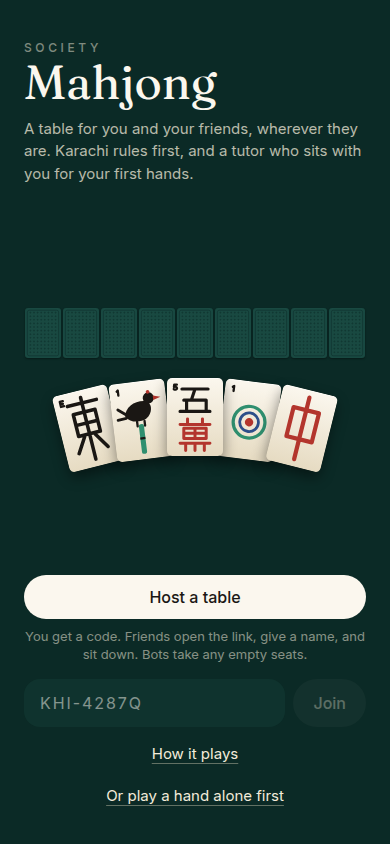
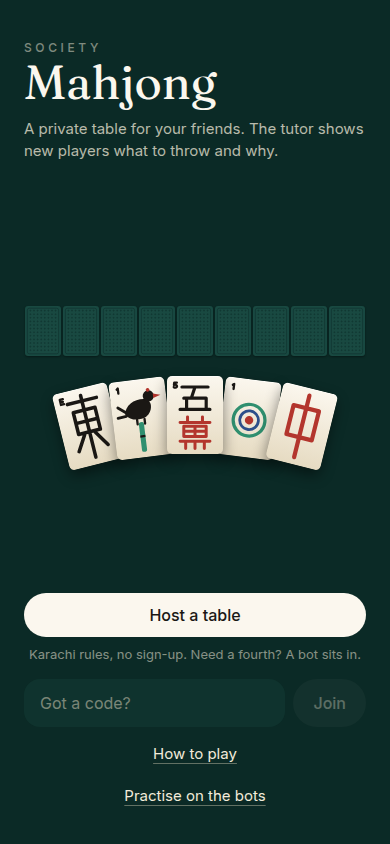
SEO pass: a card for /rules, a rules page that matches the table, site name
From an SEO audit of production and the branch, checked against Google and
Bing documentation. Nothing was marking the site down; these fix the real
gaps without adding pages.

Link previews
- /rules gets its own opengraph-image; its page-level openGraph had
  dropped the site card, so shared rules links showed no picture.
- /r/<anything> only prints a well-formed code (isRoomCode) on the card
  and in og:url; a made-up path gets a plain invite. Room codes stay on
  one line of the card.
- /play/solo has its own description instead of the host-a-table one.

The rules page tells the truth (checked against the engine)
- The deal passes after every hand (dealerRetainsOnWin is false).
- South is any four sets and a pair (fixed at the source, the Karachi
  South description in the engine).
- Only West hands open with the exchange; the opening goulash has none.
- A discard can complete a run when it wins the hand (glossary too).
- Scoring: flat stake, East doubled, own flower/season multiplier;
  goulash hands counted up, with a self-drawn bonus.
- Titled for its subject, "Karachi mahjong rules: how to play", H1 "How
  to play Karachi mahjong"; a footer route to hosting; which "goulash".

Search plumbing
- WebSite JSON-LD for the site name; WebApplication moved into @graph
  with browserRequirements instead of a misused operatingSystem.
- The home heading reads "Society Mahjong", visually unchanged.
- robots.txt: no redundant Allow, no Host line (ignored by Google, Bing).
[…]

diff --git a/apps/web/app/rules/page.tsx b/apps/web/app/rules/page.tsx
@@ -5,8 +5,8 @@ import { Tile } from '@/components/tile';
 import { GLOSSARY, TERMS } from '@/lib/coach/glossary';
 
 export const metadata: Metadata = {
-  title: 'How to play',
-  description: 'How a table of mahjong plays, what Karachi rules ask for in each round, and the words you will hear.',
+  title: 'Karachi mahjong rules: how to play',
+  description: 'Karachi mahjong rules in plain English: the tiles, claiming a discard, the hand each wind round asks for, goulash and the exchange, scoring, and the words you will hear.',
   alternates: { canonical: '/rules' },
   // Next replaces a nested object whole, so the site fields from the root layout are repeated here.
   openGraph: { siteName: 'Society Mahjong', type: 'website', locale: 'en_GB', url: '/rules' },
@@ -43,9 +43,9 @@ export default function RulesPage() {
   return (
     <main className="rules">
       <header>
-        <p className="eyebrow">How to play</p>
-        <h1 className="font-display">Mahjong, the way this table plays it</h1>
-        <p className="lede">Four seats, thirteen tiles each, one goal: complete a hand before anyone else. Here is everything a first-timer needs. The tutor covers the rest at the table.</p>
+        <p className="eyebrow">The rules</p>
+        <h1 className="font-display">How to play Karachi mahjong</h1>
+        <p className="lede">Karachi mahjong is the game played at home and at the club in Karachi: a blend of Mumbai and Western play in which each wind round asks for a different hand. Four seats, thirteen tiles each, one goal: complete a hand before anyone else. Here is everything a first-timer needs. The tutor covers the rest at the table.</p>
       </header>
 
       <section>
@@ -89,8 +89,8 @@ export default function RulesPage() {
           <Tile kind="p2" size="sm" />
         </div>
         <p>
-          And if a discard completes your whole hand, you call <b>Mahjong</b> and the hand is over. In Karachi rules a <b>chow</b> (a run of three in one suit) is built only from tiles you draw
-          yourself; it cannot be claimed.
+          And if a discard completes your whole hand, you call <b>Mahjong</b> and the hand is over. In Karachi rules a <b>chow</b> (a run of three in one suit) is built from tiles you draw
+          yourself: you cannot claim a discard to make one, unless that tile completes your whole hand.
         </p>
         <p>On a live table a claim window opens for a few seconds after each discard. If nobody wants the tile, play moves on. The window is longer when a win is on offer.</p>
       </section>
@@ -98,7 +98,7 @@ export default function RulesPage() {
       <section>
         <h2 className="font-display">Karachi rules: four rounds, four asks</h2>
         <p>
-          A game is four rounds of four hands, and each round asks for a different kind of hand. The dealer keeps the deal after winning; otherwise it passes to the right. The tutor names the
+          A game is four rounds of four hands, and each round asks for a different kind of hand. The deal passes one seat to the right after every hand, so each of you deals once a round. The tutor names the
           round&apos;s hand at the top of the table and points you towards it.
         </p>
         <dl className="rounds">
@@ -118,15 +118,18 @@ export default function RulesPage() {
           ))}
         </dl>
         <p>
-          A <b>goulash</b> hand starts with an <b>exchange</b>: everyone passes three tiles to the right, then across, then to the left, before a tile is drawn. West round is nothing but goulash.
+          The first hand of the game and every hand of the West round are <b>goulash</b> hands. Each West hand starts with an <b>exchange</b>: everyone passes three tiles to the right, then
+          across, then to the left, before a tile is drawn. British tables use the word for the hand after a washed-out deal; in Karachi rules the goulash opens the game and fills the whole West
+          round.
         </p>
       </section>
 
       <section>
         <h2 className="font-display">Scoring</h2>
         <p>
-          The winner is paid by the other three; the amount depends on the hand and on how it was completed. Winning on a tile you drew yourself (<b>self-drawn</b>) pays more than winning on a
-          discard. The table keeps a running tally; you will see it next to each name.
+          Most hands pay a flat stake: each of the other three pays the winner, and East pays and receives double. Holding your own flower or season doubles the stake, and holding both
+          quadruples it. The two kinds of goulash hand are added up tile by tile instead, and winning on a tile you drew yourself (<b>self-drawn</b>) scores more there. It is points only, never
+          money. The table keeps a running tally; you will see it next to each name.
         </p>
       </section>
 
@@ -155,11 +158,14 @@ export default function RulesPage() {
       </section>
 
       <footer>
-        <Link href="/play/solo" className="btn btn-primary btn-block min-h-[52px] text-[18px]">
-          Play a hand alone
+        <Link href="/room" className="btn btn-primary btn-block min-h-[52px] text-[18px]">
+          Host a table for your friends
+        </Link>
+        <Link href="/play/solo" className="btn btn-ghost btn-block min-h-[52px] text-[18px]">
+          Practise on the bots
         </Link>
         <Link href="/" className="link-quiet">
-          Back to the front
+          Society Mahjong home
         </Link>
       </footer>
     </main>

diff --git a/apps/web/app/page.tsx b/apps/web/app/page.tsx
@@ -12,24 +12,35 @@ export const metadata: Metadata = {
   openGraph: { siteName: 'Society Mahjong', type: 'website', locale: 'en_GB', url: '/' },
 };
 
-/** What this is, for search engines and answer agents; the same facts as /llms.txt. */
-const APP_LD = {
+/**
+ * The site's name for Google's site-name system, and what the app is; the same
+ * facts as /llms.txt. Never add ratings or reviews that are not real and on the page.
+ */
+const SITE_LD = {
   '@context': 'https://schema.org',
-  '@type': 'WebApplication',
-  name: 'Society Mahjong',
-  url: 'https://societymahjong.app/',
-  applicationCategory: 'GameApplication',
-  operatingSystem: 'iOS, Android, Web',
-  offers: { '@type': 'Offer', price: '0', priceCurrency: 'USD' },
+  '@graph': [
+    { '@type': 'WebSite', '@id': 'https://societymahjong.app/#website', name: 'Society Mahjong', url: 'https://societymahjong.app/' },
+    {
+      '@type': 'WebApplication',
+      '@id': 'https://societymahjong.app/#app',
+      name: 'Society Mahjong',
+      url: 'https://societymahjong.app/',
+      applicationCategory: 'GameApplication',
+      browserRequirements: 'Runs in a current web browser. Requires JavaScript.',
+      offers: { '@type': 'Offer', price: '0', priceCurrency: 'USD' },
+    },
+  ],
 };
 
 export default function Home() {
   return (
     <main className="landing">
-      <script type="application/ld+json" dangerouslySetInnerHTML={{ __html: JSON.stringify(APP_LD).replace(/</g, '\\u003c') }} />
+      <script type="application/ld+json" dangerouslySetInnerHTML={{ __html: JSON.stringify(SITE_LD).replace(/</g, '\\u003c') }} />
       <header className="hero">
-        <p className="eyebrow eyebrow-quiet">Society</p>
-        <h1 className="font-display">Mahjong</h1>
+        {/* One heading that reads "Society Mahjong", styled as the eyebrow over the word. */}
+        <h1 className="font-display">
+          <span className="eyebrow eyebrow-quiet">Society</span> Mahjong
+        </h1>
         <p className="lede">A private table for your friends. The tutor shows new players what to throw and why.</p>
       </header>
 

diff --git a/apps/web/lib/og.tsx b/apps/web/lib/og.tsx
@@ -21,14 +21,21 @@ function DragonTile({ height }: { height: number }) {
  * WhatsApp and iMessage show this before anyone has opened anything, so it
  * is the first thing a friend sees of the table.
  */
-export function ogCard(headline: string, line: string): ImageResponse {
+export function ogCard(headline: string | readonly string[], line: string): ImageResponse {
+  const parts = typeof headline === 'string' ? [headline] : headline;
   return new ImageResponse(
     (
       <div style={{ display: 'flex', width: '100%', height: '100%', background: '#0b2a26', color: '#fbf7ee', alignItems: 'center', padding: '0 96px', fontFamily: 'sans-serif' }}>
         <DragonTile height={360} />
         <div style={{ display: 'flex', flexDirection: 'column', marginLeft: 88, flex: 1 }}>
           <div style={{ display: 'flex', fontSize: 30, letterSpacing: 6, textTransform: 'uppercase', color: 'rgba(243,236,219,0.55)' }}>Society Mahjong</div>
-          <div style={{ display: 'flex', fontSize: 96, fontWeight: 600, lineHeight: 1.05, marginTop: 18, letterSpacing: -2 }}>{headline}</div>
+          <div style={{ display: 'flex', flexWrap: 'wrap', fontSize: 96, fontWeight: 600, lineHeight: 1.05, marginTop: 18, letterSpacing: -2, columnGap: 28 }}>
+            {parts.map((p) => (
+              <div key={p} style={{ display: 'flex', whiteSpace: parts.length > 1 ? 'nowrap' : 'normal' }}>
+                {p}
+              </div>
+            ))}
+          </div>
           <div style={{ display: 'flex', fontSize: 36, marginTop: 28, color: 'rgba(243,236,219,0.8)', lineHeight: 1.3 }}>{line}</div>
         </div>
       </div>

diff --git a/apps/web/app/layout.tsx b/apps/web/app/layout.tsx
@@ -3,8 +3,8 @@ import { Fraunces, Inter } from 'next/font/google';
 import { Analytics } from '@vercel/analytics/next';
 import './globals.css';
 
-const inter = Inter({ subsets: ['latin'], variable: '--font-inter', display: 'swap' });
-const fraunces = Fraunces({ subsets: ['latin'], variable: '--font-fraunces', display: 'swap' });
+const inter = Inter({ subsets: ['latin'], variable: '--font-inter', display: 'swap', fallback: ['Inter Fallback Android'] });
+const fraunces = Fraunces({ subsets: ['latin'], variable: '--font-fraunces', display: 'swap', fallback: ['Fraunces Fallback Android'] });
 
 export const metadata: Metadata = {
   metadataBase: new URL('https://societymahjong.app'),
@@ -13,8 +13,6 @@ export const metadata: Metadata = {
   openGraph: { siteName: 'Society Mahjong', type: 'website', locale: 'en_GB' },
   twitter: { card: 'summary_large_image' },
   appleWebApp: { capable: true, statusBarStyle: 'black-translucent', title: 'Society' },
-  // The front door and the rules are for search; the lobby, tables and solo deal opt out on their own pages.
-  robots: { index: true, follow: true },
 };
 
 export const viewport: Viewport = {
@@ -22,7 +20,6 @@ export const viewport: Viewport = {
   viewportFit: 'cover',
   width: 'device-width',
   initialScale: 1,
-  maximumScale: 1,
 };
 
 export default function RootLayout({ children }: { children: React.ReactNode }) {

diff --git a/apps/web/app/globals.css b/apps/web/app/globals.css
@@ -1,5 +1,25 @@
 @import 'tailwindcss';
 
+/* Android ships neither Arial nor Times New Roman, so next/font's size-matched
+   fallbacks never load there and text jumps when the web fonts arrive. These
+   match Roboto and Noto Serif to Inter and Fraunces instead. */
+@font-face {
+  font-family: 'Inter Fallback Android';
+  src: local('Roboto'), local('Roboto-Regular');
+  size-adjust: 107.4%;
+  ascent-override: 90.2%;
+  descent-override: 22.5%;
+  line-gap-override: 0%;
+}
+@font-face {
+  font-family: 'Fraunces Fallback Android';
+  src: local('Noto Serif'), local('NotoSerif-Regular');
+  size-adjust: 97.1%;
+  ascent-override: 100.7%;
+  descent-override: 26.3%;
+  line-gap-override: 0%;
+}
+
 /*
   Design tokens. The material is the tile: warm ivory faces, deep engraved
   glyphs, a jade felt, brass for gold-state moments. Dark is the table's
@@ -916,8 +936,13 @@ b .term {
 .landing .hero h1 {
   font-size: clamp(2.75rem, 12vw, 3.5rem);
   line-height: 1;
-  margin: 0.25rem 0 0.75rem;
+  margin: 0 0 0.75rem;
   color: var(--color-ivory-50);
+}
+/* The eyebrow sits inside the h1 so the heading reads "Society Mahjong"; it keeps its own small sans look. */
+.landing .hero h1 .eyebrow {
+  display: block;
+  margin-bottom: 0.25rem;
 }
 .landing .lede {
   margin: 0;

diff --git a/apps/web/lib/room-code.test.ts b/apps/web/lib/room-code.test.ts
@@ -1,5 +1,5 @@
 import { describe, expect, it } from 'vitest';
-import { generateRoomCode } from './room-code';
+import { generateRoomCode, isRoomCode } from './room-code';
 
 const ALPHABET = '23456789ABCDEFGHJKLMNPQRSTUVWXYZ';
 
@@ -24,5 +24,18 @@ describe('generateRoomCode', () => {
     // The chance of one clash in a thousand draws is about 1.5%; of three, under one in a million.
     const codes = new Set(Array.from({ length: 1000 }, () => generateRoomCode()));
     expect(codes.size).toBeGreaterThanOrEqual(998);
+  });
+});
+
+describe('isRoomCode', () => {
+  it('accepts every code the generator makes, and the older four-symbol codes', () => {
+    for (let i = 0; i < 200; i++) expect(isRoomCode(generateRoomCode())).toBe(true);
+    expect(isRoomCode('KHI-4287')).toBe(true);
+    expect(isRoomCode('KHI-4287Q')).toBe(true);
+  });
+
+  it('refuses anything a link card should not print as a table', () => {
+    for (const s of ['FREE-MONEY-CLICK-HERE', 'KHI-4287QQ', 'KHI-428', 'KHI-4O87Q', 'KHI-4187Q', 'khi-4287q', 'LHR-4287Q', '100%', '<SCRIPT>', ''])
+      expect(isRoomCode(s)).toBe(false);
   });
 });

diff --git a/apps/web/app/not-found.tsx b/apps/web/app/not-found.tsx
@@ -1,0 +1,28 @@
+import type { Metadata } from 'next';
+import Link from 'next/link';
+
+export const metadata: Metadata = { title: 'Page not found' };
+
+/** A mistyped or stale link: still a 404 to search, but a way back for a person. */
+export default function NotFound() {
+  return (
+    <main className="mx-auto flex min-h-dvh max-w-md flex-col justify-center gap-6 px-6 py-10">
+      <div className="space-y-2">
+        <p className="eyebrow">Not found</p>
+        <h1 className="font-display text-3xl">There’s nothing at this address.</h1>
+        <p className="text-ivory-200/70 text-sm">If a friend sent you a table link, check it with them. Or start a table of your own.</p>
+      </div>
+      <div className="flex flex-col items-center gap-3">
+        <Link href="/room" className="btn btn-primary btn-block min-h-[52px] text-[18px]">
+          Host a table
+        </Link>
+        <Link href="/" className="link-quiet">
+          Society Mahjong home
+        </Link>
+        <Link href="/rules" className="link-quiet">
+          How to play
+        </Link>
+      </div>
+    </main>
+  );
+}

diff --git a/apps/web/app/r/[code]/page.tsx b/apps/web/app/r/[code]/page.tsx
@@ -1,5 +1,6 @@
 import type { Metadata } from 'next';
 import { RoomLobby } from './room-lobby';
+import { isRoomCode } from '@/lib/room-code';
 
 export const dynamic = 'force-dynamic';
 
@@ -8,6 +9,17 @@ export async function generateMetadata({ params }: { params: Promise<{ code: str
   const { code } = await params;
   const upper = code.toUpperCase();
   const description = 'Give a name and take your seat. No sign-up. Karachi rules, and a tutor for new players.';
+  // Only a code this app could have issued goes on the card; anything else gets a plain invite and no og:url.
+  if (!isRoomCode(upper)) {
+    const title = 'Join a mahjong table';
+    return {
+      title,
+      description,
+      openGraph: { siteName: 'Society Mahjong', type: 'website', locale: 'en_GB', title, description },
+      twitter: { card: 'summary_large_image', title, description },
+      robots: { index: false, follow: false },
+    };
+  }
   return {
     title: `Join table ${upper}`,
     description,

diff --git a/apps/web/app/play/solo/page.tsx b/apps/web/app/play/solo/page.tsx
@@ -1,10 +1,16 @@
-import type { Metadata } from 'next';
+import type { Metadata, Viewport } from 'next';
 import { SoloTable } from './solo-table';
 import { newDealSeed } from '@/lib/seed';
 
 /** The deal is random per visit, so there is nothing worth prerendering, and nothing for search to keep. */
 export const dynamic = 'force-dynamic';
-export const metadata: Metadata = { title: 'Play a hand', robots: { index: false, follow: false } };
+export const metadata: Metadata = {
+  title: 'Practise on the bots',
+  description: 'Practise a hand of mahjong against three bots, with a tutor that shows you what to throw and why.',
+  robots: { index: false, follow: false },
+};
+/** The table keeps pinch-zoom off so a stray gesture never rescales the tiles; reading pages stay zoomable. */
+export const viewport: Viewport = { maximumScale: 1 };
 
 export default function SoloPage() {
   return <SoloTable seed={newDealSeed()} />;

diff --git a/apps/web/app/sitemap.ts b/apps/web/app/sitemap.ts
@@ -1,9 +1,13 @@
 import type { MetadataRoute } from 'next';
 
-/** The two pages search should know; everything else is behind a link or a deal. */
+/**
+ * The two pages search should know; everything else is behind a link or a deal.
+ * lastModified is set by hand when that page's words change, never to "now":
+ * Google trusts lastmod only while it stays accurate, and ignores changefreq and priority.
+ */
 export default function sitemap(): MetadataRoute.Sitemap {
   return [
-    { url: 'https://societymahjong.app/', changeFrequency: 'monthly', priority: 1 },
-    { url: 'https://societymahjong.app/rules', changeFrequency: 'monthly', priority: 0.8 },
+    { url: 'https://societymahjong.app/', lastModified: '2026-09-24' },
+    { url: 'https://societymahjong.app/rules', lastModified: '2026-09-24' },
   ];
 }

diff --git a/apps/web/app/r/[code]/opengraph-image.tsx b/apps/web/app/r/[code]/opengraph-image.tsx
@@ -1,4 +1,5 @@
 import { OG_SIZE, ogCard } from '@/lib/og';
+import { isRoomCode } from '@/lib/room-code';
 
 export const alt = 'Join my mahjong table';
 export const size = OG_SIZE;
@@ -6,5 +7,7 @@ export const contentType = 'image/png';
 
 export default async function Image({ params }: { params: Promise<{ code: string }> }) {
   const { code } = await params;
-  return ogCard(`Table ${code.toUpperCase()}`, 'Give a name and take your seat. New players get a tutor.');
+  const upper = code.toUpperCase();
+  // The code never breaks across lines; a path that is not a real code gets the plain card.
+  return ogCard(isRoomCode(upper) ? ['Table', upper] : 'Mahjong', 'Give a name and take your seat. New players get a tutor.');
 }

diff --git a/apps/web/lib/coach/glossary.ts b/apps/web/lib/coach/glossary.ts
@@ -62,7 +62,7 @@ export const GLOSSARY: Readonly<Record<Term, TermEntry>> = {
   chow: {
     label: 'Run',
     short: 'three in a row, one suit',
-    long: 'Three tiles in sequence in one suit, like 3-4-5 of bamboo. Also called a chow. In Karachi rules a run can only be made from tiles you draw; nobody’s discard ever completes one.',
+    long: 'Three tiles in sequence in one suit, like 3-4-5 of bamboo. Also called a chow. In Karachi rules you build runs from tiles you draw: you cannot claim a discard to make one, unless that tile completes your whole hand.',
     example: ['s3', 's4', 's5'],
     aliases: ['runs', 'run', 'chows', 'chow', 'sequence'],
   },
